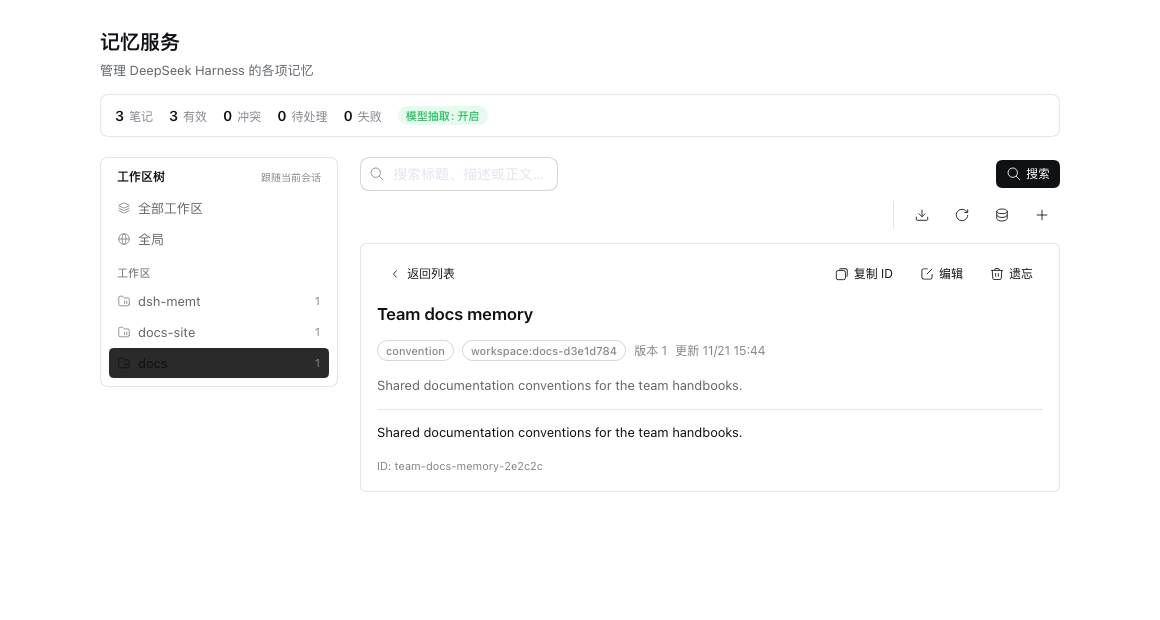
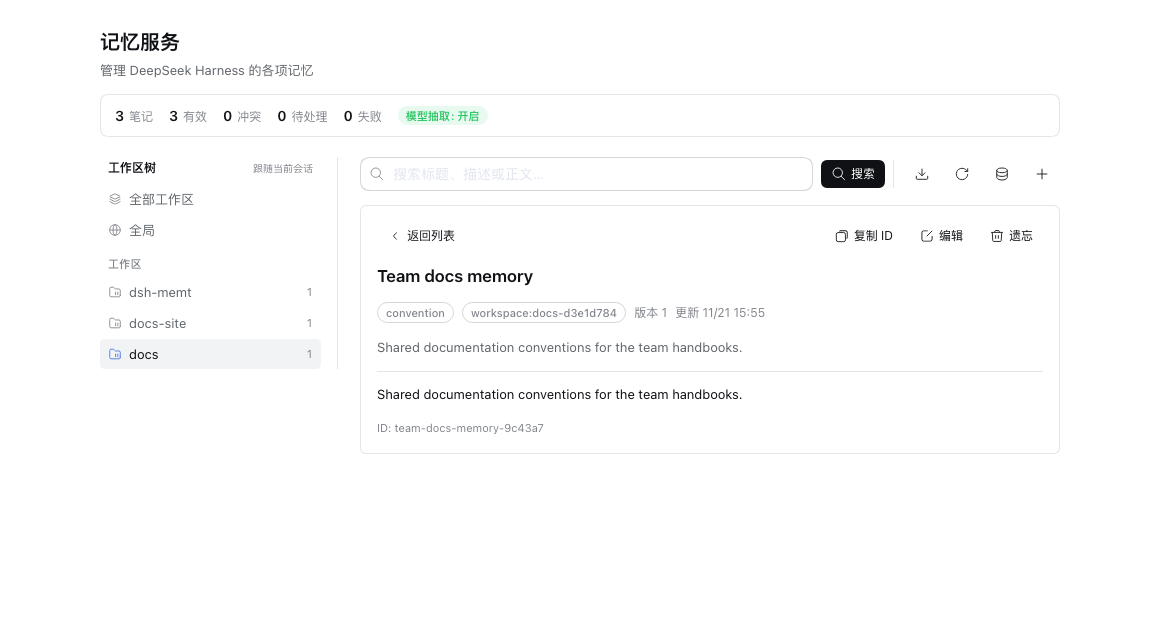
fix: compact the memory toolbar and workspace rail

diff --git a/client.js b/client.js
@@ -117,16 +117,16 @@ window.__ModuleLoader__.load({
         ".dms_summary{display:flex;gap:16px;flex-wrap:wrap;align-items:center;padding:11px 14px;border:1px solid var(--dsw-alias-border-l2,#333);border-radius:10px;background:var(--dsw-alias-bg-layer-1,#181818);}",
         ".dms_layout{display:grid;grid-template-columns:238px minmax(0,1fr);gap:22px;align-items:start;}",
         ".dms_content{display:flex;flex-direction:column;gap:14px;min-width:0;}",
-        ".dms_treePane{border:1px solid var(--dsw-alias-border-l2,#333);border-radius:10px;background:var(--dsw-alias-bg-layer-1,#181818);padding:8px;position:sticky;top:16px;max-height:calc(100vh - 230px);overflow:auto;box-sizing:border-box;}",
+        ".dms_treePane{border:0;border-right:1px solid var(--dsw-alias-border-l2,#333);border-radius:0;background:transparent;padding:0 16px 0 0;position:sticky;top:16px;max-height:calc(100vh - 200px);overflow:auto;box-sizing:border-box;}",
         ".dms_treeHead{display:flex;align-items:center;justify-content:space-between;gap:8px;padding:2px 8px 8px;font-size:12px;font-weight:600;color:var(--dsw-alias-label-primary,#eee);}.dms_treeHint{font-size:10px;font-weight:400;color:var(--dsw-alias-label-tertiary,#888);white-space:nowrap;overflow:hidden;text-overflow:ellipsis;}",
         ".dms_treeList{display:flex;flex-direction:column;gap:1px;}.dms_treeSection{padding:10px 8px 4px;font-size:11px;font-weight:500;color:var(--dsw-alias-label-tertiary,#888);letter-spacing:.02em;}",
-        ".dms_treeRow{width:100%;min-height:30px;display:flex;align-items:center;gap:7px;padding:5px 8px;border:0;border-radius:6px;background:transparent;color:var(--dsw-alias-label-secondary,#bbb);font:inherit;font-size:13px;line-height:20px;text-align:left;cursor:pointer;box-sizing:border-box;}.dms_treeRow:hover{background:var(--dsw-alias-interactive-bg-hover,#242424);color:var(--dsw-alias-label-primary,#eee);}.dms_treeRowActive,.dms_treeRowActive:hover{background:var(--dsw-alias-interactive-bg-selected,#2a2a2a);color:var(--dsw-alias-label-primary,#fff);}.dms_treeRow:disabled{opacity:.5;cursor:default;}",
-        ".dms_treeIcon{display:flex;align-items:center;justify-content:center;flex:none;color:var(--dsw-alias-label-tertiary,#888);}.dms_treeRowActive .dms_treeIcon{color:var(--dsw-alias-label-primary,#fff);}.dms_treeTitle{min-width:0;flex:1;overflow:hidden;text-overflow:ellipsis;white-space:nowrap;}.dms_treeCount{flex:none;font-size:11px;color:var(--dsw-alias-label-tertiary,#888);font-variant-numeric:tabular-nums;}",
+        ".dms_treeRow{width:100%;min-height:30px;display:flex;align-items:center;gap:7px;padding:5px 8px;border:0;border-radius:6px;background:transparent;color:var(--dsw-alias-label-secondary,#bbb);font:inherit;font-size:13px;line-height:20px;text-align:left;cursor:pointer;box-sizing:border-box;}.dms_treeRow:hover{background:var(--dsw-alias-interactive-bg-hover,#242424);color:var(--dsw-alias-label-primary,#eee);}.dms_treeRowActive,.dms_treeRowActive:hover{background:var(--dsw-alias-interactive-bg-hover,#242424);color:var(--dsw-alias-label-primary,#fff);}.dms_treeRow:disabled{opacity:.5;cursor:default;}",
+        ".dms_treeIcon{display:flex;align-items:center;justify-content:center;flex:none;color:var(--dsw-alias-label-tertiary,#888);}.dms_treeRowActive .dms_treeIcon{color:var(--dsw-alias-state-business-primary,#4d6bfe);}.dms_treeTitle{min-width:0;flex:1;overflow:hidden;text-overflow:ellipsis;white-space:nowrap;}.dms_treeCount{flex:none;font-size:11px;color:var(--dsw-alias-label-tertiary,#888);font-variant-numeric:tabular-nums;}",
         ".dms_treeEmpty{padding:12px 8px;font-size:12px;color:var(--dsw-alias-label-tertiary,#888);}",
         ".dms_metric{display:flex;gap:5px;align-items:baseline;font-size:12px;color:var(--dsw-alias-label-tertiary,#888);}.dms_metric b{font-size:14px;color:var(--dsw-alias-label-primary,#eee);font-weight:600;}",
         ".dms_controls{display:flex;flex-direction:column;gap:10px;}",
         ".dms_toolbar{display:flex;gap:8px;flex-wrap:wrap;align-items:center;}.dms_filters{display:flex;gap:8px;align-items:center;flex-wrap:wrap;min-width:0;}.dms_actions{margin-left:auto;display:flex;gap:4px;align-items:center;padding-left:10px;border-left:1px solid var(--dsw-alias-border-l2,#333);}.dms_scope{width:250px;flex:none;min-width:210px;}.dms_dropdownLabel{max-width:180px;overflow:hidden;text-overflow:ellipsis;white-space:nowrap;}",
-        ".dms_toolbar .dms_search{min-width:230px;flex:1;}",
+        ".dms_toolbar .dms_search{min-width:230px;flex:1;display:flex;}.dms_toolbar .dms_search>*{width:100%;}",
         ".dms_input,.dms_select,.dms_textarea{background:var(--dsw-alias-bg-layer-3,#222);color:inherit;border:1px solid var(--dsw-alias-border-l2,#333);border-radius:6px;padding:7px 9px;font:inherit;}",
         ".dms_input{box-sizing:border-box;width:100%;}.dms_textarea{min-height:150px;width:100%;box-sizing:border-box;resize:vertical;font-size:13px;line-height:20px;}",
         ".dms_select{padding:6px 8px;}.dms_btn{cursor:pointer;border:1px solid var(--dsw-alias-border-l2,#333);background:var(--dsw-alias-bg-layer-3,#222);color:inherit;border-radius:6px;padding:7px 11px;font:inherit;}",
@@ -148,7 +148,7 @@ window.__ModuleLoader__.load({
         ".dms_error{color:var(--dsw-alias-state-error-primary,#e74c3c);font-size:13px;line-height:19px;}.dms_empty{display:flex;flex-direction:column;gap:6px;align-items:center;padding:42px 12px;color:var(--dsw-alias-label-tertiary,#888);text-align:center;border:1px dashed var(--dsw-alias-border-l2,#333);border-radius:8px;}",
         ".dms_empty b{font-size:14px;color:var(--dsw-alias-label-secondary,#aaa);font-weight:500;}.dms_emptyIcon{opacity:.7;}",
         ".dms_toolBody{display:flex;flex-direction:column;gap:8px;padding:8px 0 2px 26px;}.dms_toolLabel{font-size:11px;color:var(--dsw-alias-label-tertiary,#888);}.dms_toolPre{margin:0;padding:8px 10px;border-radius:6px;background:var(--dsw-alias-bg-layer-3,#222);color:var(--dsw-alias-label-secondary,#ccc);font-size:11px;line-height:17px;white-space:pre-wrap;overflow-wrap:anywhere;max-height:260px;overflow:auto;}",
-        "@media (max-width:900px){.dms_layout{grid-template-columns:1fr;}.dms_treePane{position:static;max-height:240px;}}",
+        "@media (max-width:900px){.dms_layout{grid-template-columns:1fr;}.dms_treePane{position:static;border-right:0;border-bottom:1px solid var(--dsw-alias-border-l2,#333);padding:0 0 12px;max-height:240px;}}",
         "@media (max-width:720px){.dms_filters{width:100%;}.dms_actions{margin-left:0;border-left:none;padding-left:0;}.dms_detailTop{align-items:flex-start;flex-direction:column;}.dms_detailActions{flex-wrap:wrap;}.dms_summary{gap:10px 14px;}.dms_search{min-width:0;}.dms_page{padding:20px 18px 32px;}.dms_treeHint{display:none;}}",
         ".dms_toolTitle{display:flex;gap:6px;align-items:center;min-width:0;}.dms_toolSummary{color:var(--dsw-alias-label-tertiary,#888);font-size:12px;overflow:hidden;text-overflow:ellipsis;white-space:nowrap;}"
       ].join("");
@@ -413,10 +413,8 @@ window.__ModuleLoader__.load({
         const metric = (label, value) => h("span", { className: "dms_metric", key: label }, h("b", null, String(value == null ? "—" : value)), label);
         const toolbar = h("div", { className: "dms_toolbar" },
           h("div", { className: "dms_search" }, textField({ value: query, placeholder: t("searchPlaceholder"), icon: icon("IconSearchOutlineRegular"), onChange: (event) => setQuery(event.target.value) })),
-          action(t("search"), { type: "submit", variant: "primary" }, "IconSearchOutlineRegular"));
-        const toolbar2 = h("div", { className: "dms_toolbar" },
-          h("div", { className: "dms_filters" },
-            (status?.conflicts || 0) > 0 ? action(onlyConflicts ? t("allMemories") : t("conflictShort") + " " + status.conflicts, { type: "button", onClick: showConflicts, variant: onlyConflicts ? "primary" : "ghost" }, "IconInfoOutlineRegular") : null),
+          action(t("search"), { type: "submit", variant: "primary" }, "IconSearchOutlineRegular"),
+          (status?.conflicts || 0) > 0 ? action(onlyConflicts ? t("allMemories") : t("conflictShort") + " " + status.conflicts, { type: "button", onClick: showConflicts, variant: onlyConflicts ? "primary" : "ghost" }, "IconInfoOutlineRegular") : null,
           h("div", { className: "dms_actions" },
             iconButton(t("claudeImport"), { type: "button", onClick: openClaudeImport }, "IconDownloadOutlineRegular"),
             iconButton(t("refresh"), { type: "button", onClick: refresh }, "IconRefreshOutlineRegular"),
@@ -557,7 +555,7 @@ window.__ModuleLoader__.load({
           h("div", { className: "dms_layout" },
             workspaceTree,
             h("div", { className: "dms_content" },
-              h("form", { className: "dms_controls", onSubmit: submitSearch }, toolbar, toolbar2),
+              h("form", { className: "dms_controls", onSubmit: submitSearch }, toolbar),
               form || detail || list)),
           claudeDialog);
       };

diff --git a/CHANGELOG.md b/CHANGELOG.md
@@ -8,6 +8,7 @@
 - Workspace scope now exposes real memory workspaces and sends explicit `workspace:<id>` scopes; it no longer falls back to `workspace:default` silently.
 - Memory page layout now follows the Plugins/Tasks page shell: 28px top inset, 48px inline inset, 960px content column, shared-width header/summary/content.
 - Workspace scope is now a DSH-style workspace tree; opening the panel from a Session follows that Session's workspace, with a latest-workspace fallback.
+- Refined the page toolbar to one compact row and replaced the tree card with a borderless sidebar-style rail.
 
 ## 0.2.0
 
